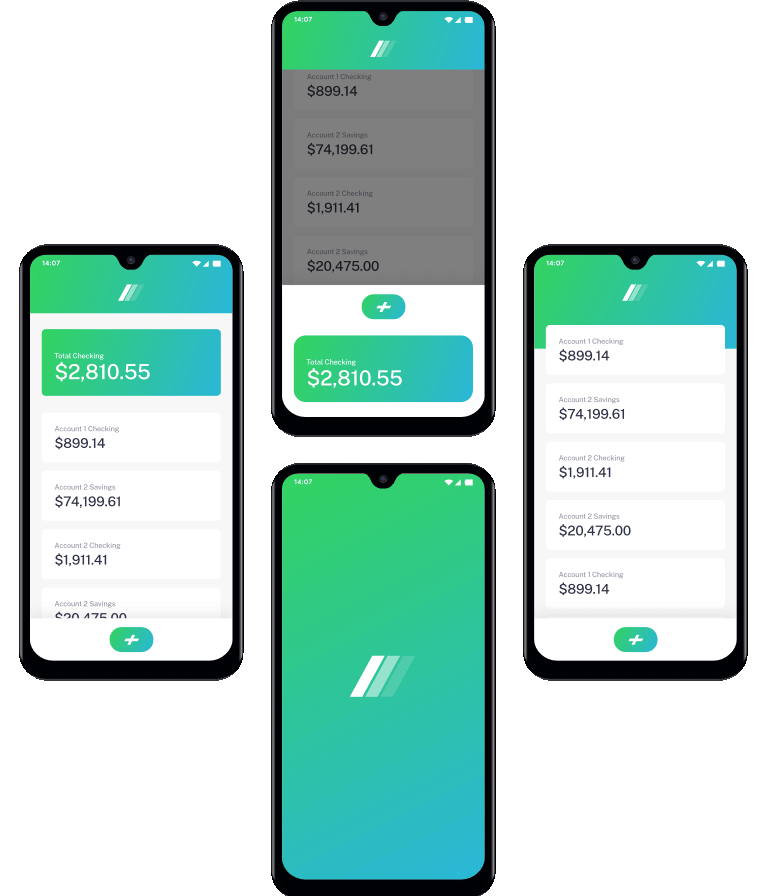
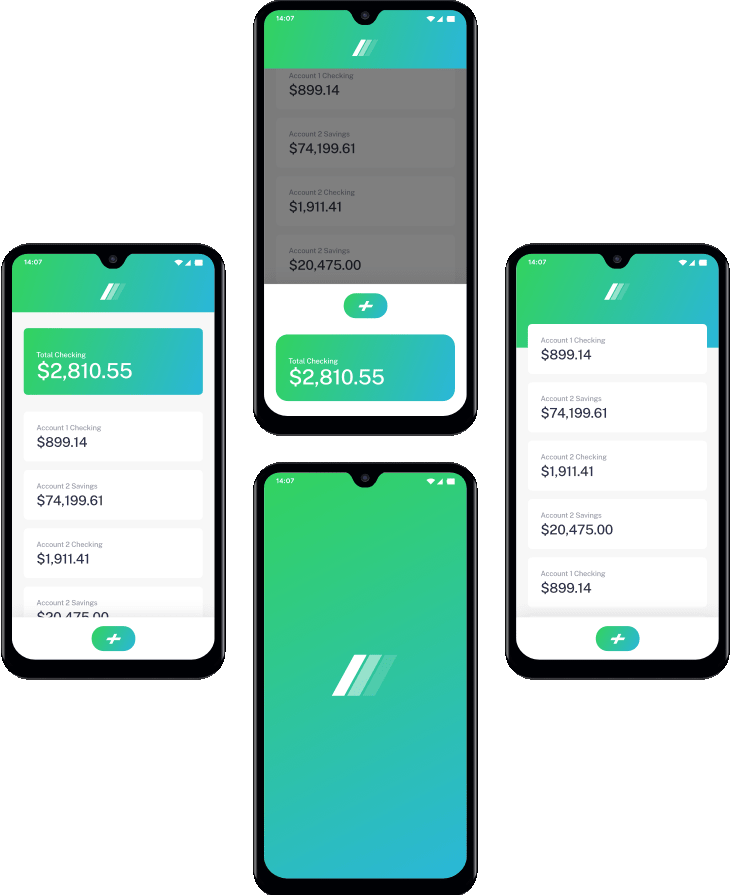
Fixed mobile layout for .hero

diff --git a/css/style.css b/css/style.css
@@ -49,7 +49,7 @@ li {
   list-style: none; }
 
 .hero__info {
-  max-width: 20.83333rem;
+  width: clamp(20.83333rem, 75vw, 32.22222rem);
   margin-left: auto;
   margin-right: auto; }
 
@@ -59,19 +59,6 @@ li {
 
 .hero__paragraph {
   text-align: center; }
-
-@media (min-width: 565px) {
-  .hero__info {
-    margin-left: unset;
-    margin-right: unset; }
-  .hero__heading {
-    text-align: left; }
-  .hero__paragraph {
-    text-align: left; } }
-
-@media (min-width: 884px) {
-  .hero__info {
-    max-width: 32.22222rem; } }
 
 .btn--CTA {
   font-size: clamp(0.72222rem, 0.97222vw, 0.88889rem);
@@ -96,37 +83,34 @@ li {
   margin-left: auto;
   margin-right: auto; }
 
-@media (min-width: 565px) {
-  .hero .btn--CTA {
-    margin-left: unset; } }
-
 .logo--top {
   object-fit: contain; }
 
 .hero__img {
   z-index: 0;
   margin-left: auto;
-  margin-top: -6.8rem;
-  width: 20.83333rem; }
+  margin-top: -6.66667rem; }
 
 .hero__mockups {
   display: block;
   margin-left: auto;
   margin-right: auto;
-  width: max(19.16667rem, 53.81944vw); }
+  width: max(18.05556rem, 53.81944vw); }
 
-.hero__bg--desktop {
-  display: none; }
+.hero__bg {
+  width: 100%; }
+  .hero__bg--desktop {
+    display: none; }
 
-@media (min-width: 1080px) {
-  .hero__img {
-    margin-top: -14.44444rem;
-    margin-left: unset; }
+@media (min-width: 540px) {
   .hero__bg--mobile {
     display: none; }
   .hero__bg--desktop {
-    display: block;
-    max-width: 70.61111rem; } }
+    display: block; } }
+
+@media (min-width: 844px) {
+  .hero__bg {
+    width: unset; } }
 
 .latest-articles {
   display: none; }
@@ -170,9 +154,7 @@ li {
     gap: 2.77778rem; } }
 
 .hero__img {
-  display: grid;
-  grid-template-columns: repeat(3, auto);
-  grid-template-rows: max(3.33333rem, 5.55556vw) max(19.16667rem, 63.19444vw); }
+  display: grid; }
 
 .hero__bg {
   z-index: 0;
@@ -183,14 +165,6 @@ li {
   z-index: 1;
   grid-column: 2/3;
   grid-row: 1/3; }
-
-@media (min-width: 1080px) {
-  .hero__img {
-    grid-template-columns: repeat(3, auto); }
-  .hero__bg {
-    grid-row: 1/2; }
-  .hero__mockups {
-    grid-row: 2/3; } }
 
 .nav--top {
   display: none; }
@@ -213,9 +187,10 @@ header {
 .hero {
   overflow: hidden; }
 
-@media (min-width: 565px) {
+@media (min-width: 540px) {
   .hero {
     margin-left: auto;
+    margin-right: auto;
     width: max(20.83333rem, 88.88889vw); } }
 
 .btn--CTA {

diff --git a/sass/components/images.scss b/sass/components/images.scss
@@ -8,39 +8,55 @@
   &__img {
     z-index: 0;
     margin-left: auto;
-    margin-top: rem(-122.4px);
-    width: rem(375px);
+    margin-top: rem(-120px);
   }
   &__mockups {
     display: block;
     margin-left: auto;
     margin-right: auto;
-    width: maxSCSS(345px, 775px);
+    width: maxSCSS(325px, 775px);
   }
   &__bg {
+    width: 100%;
     &--desktop {
       display: none;
     }
   }
-}
-
-@media (min-width: 1080px) {
-  .hero {
-    &__img {
-      margin-top: rem(-260px);
-      margin-left: unset;
-    }
+  @media (min-width: 540px) {
     &__bg {
       &--mobile {
         display: none;
+
       }
       &--desktop {
         display: block;
-        max-width: rem(1271px);
       }
     }
   }
+  @media (min-width: 844px) {
+    &__bg {
+      width: unset;
+    }
+  }
 }
+
+// @media (min-width: 1080px) {
+//   .hero {
+//     &__img {
+//       margin-top: rem(-260px);
+//       margin-left: unset;
+//     }
+//     &__bg {
+//       &--mobile {
+//         display: none;
+//       }
+//       &--desktop {
+//         display: block;
+//         max-width: rem(1271px);
+//       }
+//     }
+//   }
+// }
 
 .latest-articles {
   display: none;

diff --git a/sass/base/typography.scss b/sass/base/typography.scss
@@ -1,6 +1,6 @@
 .hero {
   &__info {
-    max-width: rem(375px);
+    width: clamp(rem(375px), 75vw, rem(580px));
     margin-left: auto;
     margin-right: auto;
   }
@@ -11,28 +11,22 @@
   &__paragraph {
     text-align: center;
   }
-  @media (min-width: 565px) {
-    &__info {
-      margin-left: unset;
-      margin-right: unset;
-    }
-    &__heading {
-      text-align: left;
-    }
-    &__paragraph {
-      text-align: left;
-    }
-  }
-  @media (min-width: 884px) {
-    &__info {
-      max-width: rem(580px);
-    }
-  }
+  // @media (min-width: 540px) {
+  //   &__info {
+  //     margin-left: unset;
+  //     margin-right: unset;
+  //   }
+  //   &__heading {
+  //     text-align: left;
+  //   }
+  //   &__paragraph {
+  //     text-align: left;
+  //   }
+  // }
 }
 
 .btn {
   &--CTA {
-    // font-size: maxSCSS(13px, 14px);
     font-size: clamp(rem(13px), getVW(14px, desktop), rem(16px));
     font-weight: var(--font-weight-bold);
     letter-spacing: 0.05rem;

diff --git a/sass/layout/grid.scss b/sass/layout/grid.scss
@@ -1,9 +1,7 @@
 .hero {
   &__img {
     display: grid;
-    grid-template-columns: repeat(3, auto);
-    grid-template-rows: maxSCSS(60px, 80px) maxSCSS(345px, 910px);
-  }
+   }
   &__bg {
     z-index: 0;
     grid-column: 1/4;
@@ -13,19 +11,5 @@
     z-index: 1;
     grid-column: 2/3;
     grid-row: 1/3;
-  }
-}
-
-@media (min-width: 1080px) {
-  .hero {
-    &__img {
-      grid-template-columns: repeat(3, auto);
-    }
-    &__bg {
-      grid-row:1/2;
-    }
-    &__mockups {
-     grid-row: 2/3;
-    }
   }
 }

diff --git a/sass/components/buttons.scss b/sass/components/buttons.scss
@@ -25,10 +25,10 @@
   }
 }
 
-@media (min-width: 565px) {
-  .hero {
-    .btn--CTA {
-      margin-left: unset;
-    }
-  }
-}
+// @media (min-width: 540px) {
+//   .hero {
+//     .btn--CTA {
+//       margin-left: unset;
+//     }
+//   }
+// }

diff --git a/sass/layout/sub-sections.scss b/sass/layout/sub-sections.scss
@@ -2,9 +2,10 @@
   overflow: hidden;
 }
 
-@media (min-width: 565px) {
+@media (min-width: 540px) {
   .hero {
     margin-left: auto;
+    margin-right: auto;
     width: maxSCSS(375px, 1280px);
   }
 }

diff --git a/sass/layout/flex.scss b/sass/layout/flex.scss
@@ -27,7 +27,6 @@
   display: flex;
   flex-direction: row;
   flex-wrap: wrap-reverse;
-  // justify-content: space-between;
 }
 
 @media (min-width: 1080px) {
